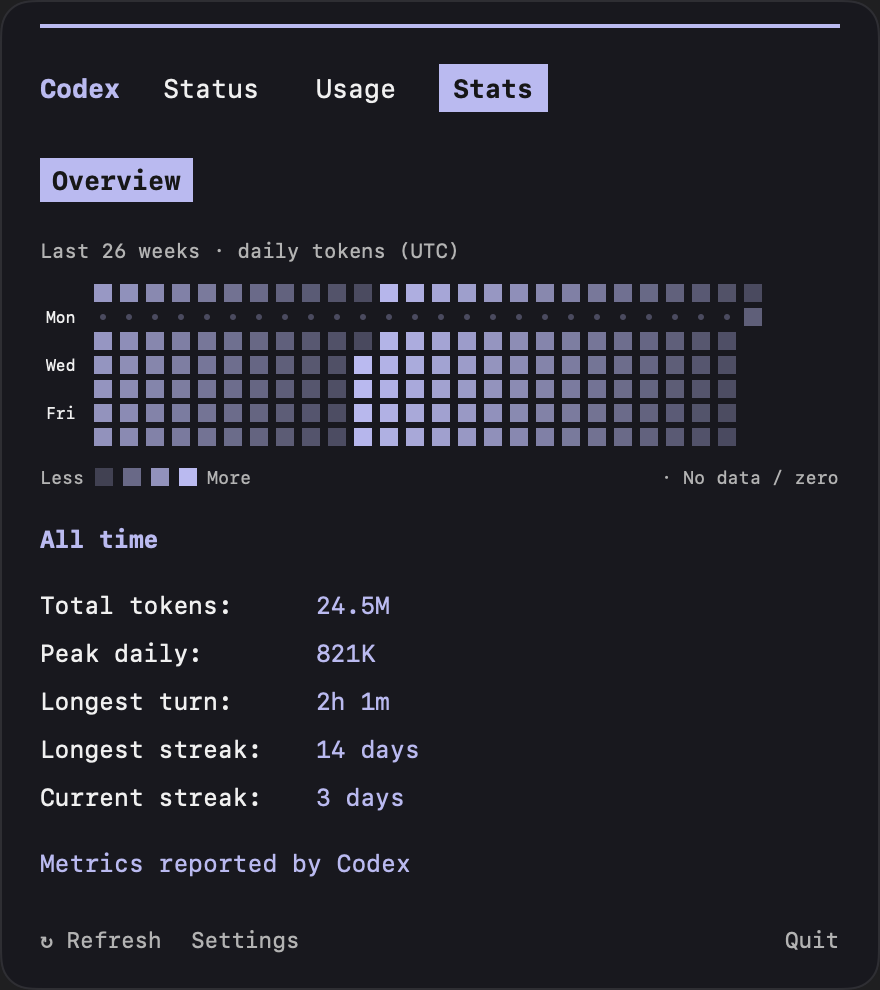
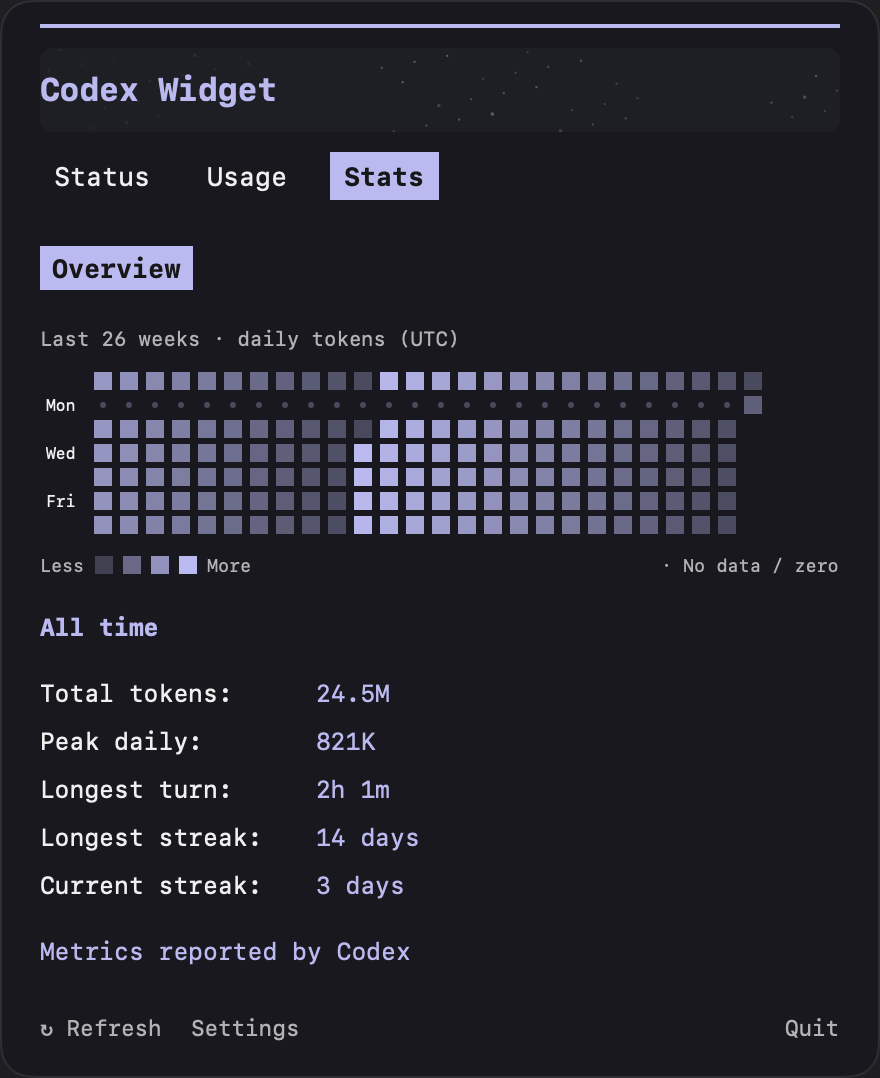
Separate app title from tabs with a subtle animated starfield

diff --git a/Sources/CodexWidget/StarfieldHeader.swift b/Sources/CodexWidget/StarfieldHeader.swift
@@ -1,0 +1,44 @@
+import SwiftUI
+
+/// A quiet, decorative star field; the title is separate from tab navigation.
+struct StarfieldHeader: View {
+    let color: Color
+    @Environment(\.accessibilityReduceMotion) private var reduceMotion
+    @State private var visible = false
+
+    var body: some View {
+        Text("Codex Widget")
+            .font(.system(size: 16, weight: .bold, design: .monospaced))
+            .foregroundStyle(color)
+            .frame(maxWidth: .infinity, alignment: .leading)
+            .frame(height: 42)
+            .background {
+                TimelineView(.animation(minimumInterval: 1.0 / 15, paused: reduceMotion || !visible)) { timeline in
+                    Canvas { context, size in
+                        let time = reduceMotion ? 0 : timeline.date.timeIntervalSinceReferenceDate
+                        for index in 0..<48 {
+                            // Stable positions avoid flicker when SwiftUI redraws the header.
+                            let seed = Double(index)
+                            let phase = seed * 2.399963
+                            let speed = 0.0015 + Double(index % 4) * 0.0004
+                            let x = (seed * 0.618034 + time * speed).truncatingRemainder(dividingBy: 1) * size.width
+                            let y = (seed * 0.414214 + 0.17).truncatingRemainder(dividingBy: 1) * size.height
+                            let brightness = 0.20 + 0.20 * (1 + sin(time * 0.65 + phase)) / 2
+                            // Keep stars subdued under the title for clear text in either theme.
+                            let titleFade = x < 155 ? 0.25 : 1.0
+                            let side = index % 7 == 0 ? 1.5 : 1.0
+                            context.fill(Path(CGRect(x: x, y: y, width: side, height: side)),
+                                         with: .color(color.opacity(brightness * titleFade)))
+                        }
+                    }
+                }
+                .background(color.opacity(0.035))
+                .clipShape(RoundedRectangle(cornerRadius: 6))
+                .allowsHitTesting(false)
+                .accessibilityHidden(true)
+            }
+            .accessibilityAddTraits(.isHeader)
+            .onAppear { visible = true }
+            .onDisappear { visible = false }
+    }
+}

diff --git a/Sources/CodexWidget/UsagePanel.swift b/Sources/CodexWidget/UsagePanel.swift
@@ -40,8 +40,9 @@ struct UsagePanel: View {
     var body: some View {
         VStack(alignment: .leading, spacing: 0) {
             Rectangle().fill(style.lavender).frame(height: 2)
+            StarfieldHeader(color: style.lavender)
+                .padding(.top, 10).padding(.bottom, 10)
             HStack(spacing: 14) {
-                Text("Codex").fontWeight(.bold).foregroundStyle(style.lavender)
                 ForEach(PanelTab.allCases, id: \.self) { item in
                     Button { tab = item } label: {
                         Text(item.rawValue).fontWeight(tab == item ? .bold : .regular)
@@ -52,7 +53,7 @@ struct UsagePanel: View {
                     .accessibilityAddTraits(tab == item ? .isSelected : [])
                 }
                 Spacer(minLength: 0)
-            }.font(.system(size: 13, design: .monospaced)).padding(.bottom, 23).padding(.top, 18)
+            }.font(.system(size: 13, design: .monospaced)).padding(.bottom, 23)
 
             if let error = store.error {
                 Text(error).foregroundStyle(style.orange).padding(.bottom, 16)

diff --git a/AGENTS.md b/AGENTS.md
@@ -62,6 +62,7 @@ The development machine has emitted unrelated CoreSimulator/CoreDevice compatibi
 
 - Menu bar: a monochrome `terminal` SF Symbol only. Do not put quota numbers or usage text back in the menu bar label.
 - Panel: 440-point width, monospace type, adaptive purple/lavender top rule and selected tabs. Settings offers Auto (follows macOS), Light, and Dark, persisted as `appearance`. The panel uses a lightly tinted native material with rounded corners; Reduce Transparency or Increase Contrast makes it opaque. Keep text and bars fully opaque and readable in both themes.
+- Header: left-aligned “Codex Widget” on its own row above the tabs, over a subtle drifting star field. Decorative stars do not intercept input or appear in accessibility; Reduce Motion freezes them, and animation pauses while hidden.
 - Tabs: Status, Usage (initial selection), and Stats.
 - All tab contents participate in a top-aligned `ZStack`; only the selected tab is visible, interactive, enabled, and exposed to accessibility. The largest content sets the panel height, so switching tabs does not resize it. The footer stays in place. Height can respond to changed data, but must not depend on selected tab.
 - Status shows app version, connection, login method, plan, email, last update, and refresh cadence. Do not invent current conversation/session metadata.

diff --git a/README.md b/README.md
@@ -2,7 +2,7 @@
 
 # Codex Widget
 
-A native macOS menu bar monitor for your existing ChatGPT-backed Codex account. A terminal icon opens a terminal-inspired status panel with monospace text and lavender accents.
+A native macOS menu bar monitor for your existing ChatGPT-backed Codex account. A terminal icon opens a terminal-inspired status panel with monospace text and lavender accents. A separate **Codex Widget** title sits above the tabs over a subtle animated star field; Reduce Motion keeps the stars still.
 
 An unofficial, community-maintained personal project, not affiliated with or endorsed by OpenAI or Anthropic. Compatibility depends on the installed Codex version and the account data its app-server provides.
 
